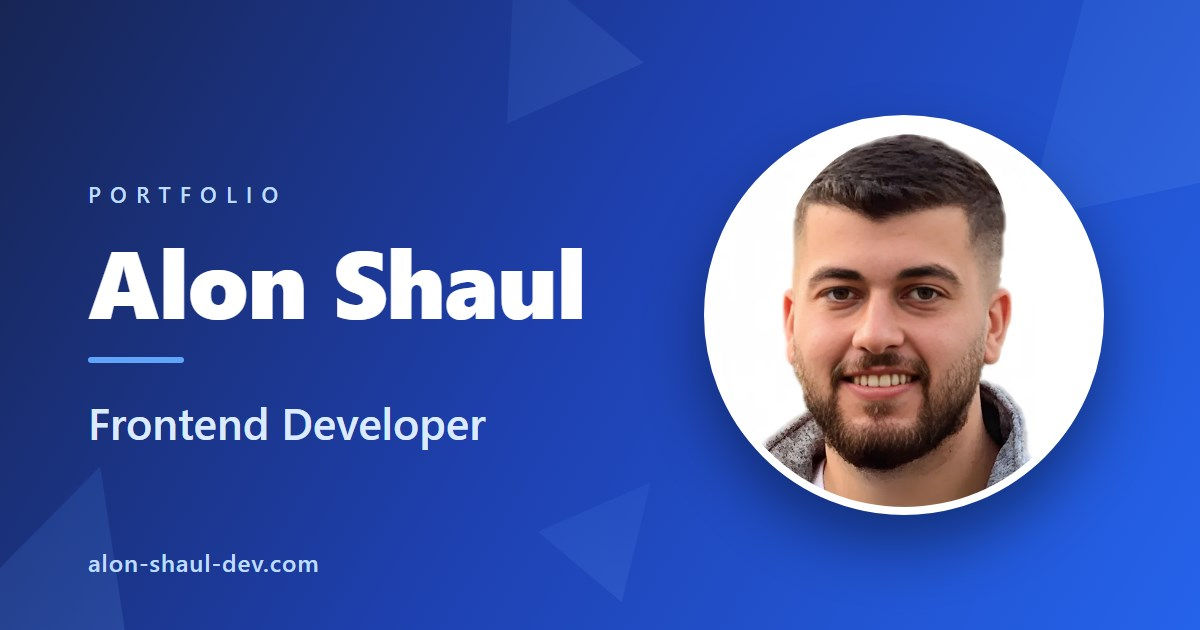
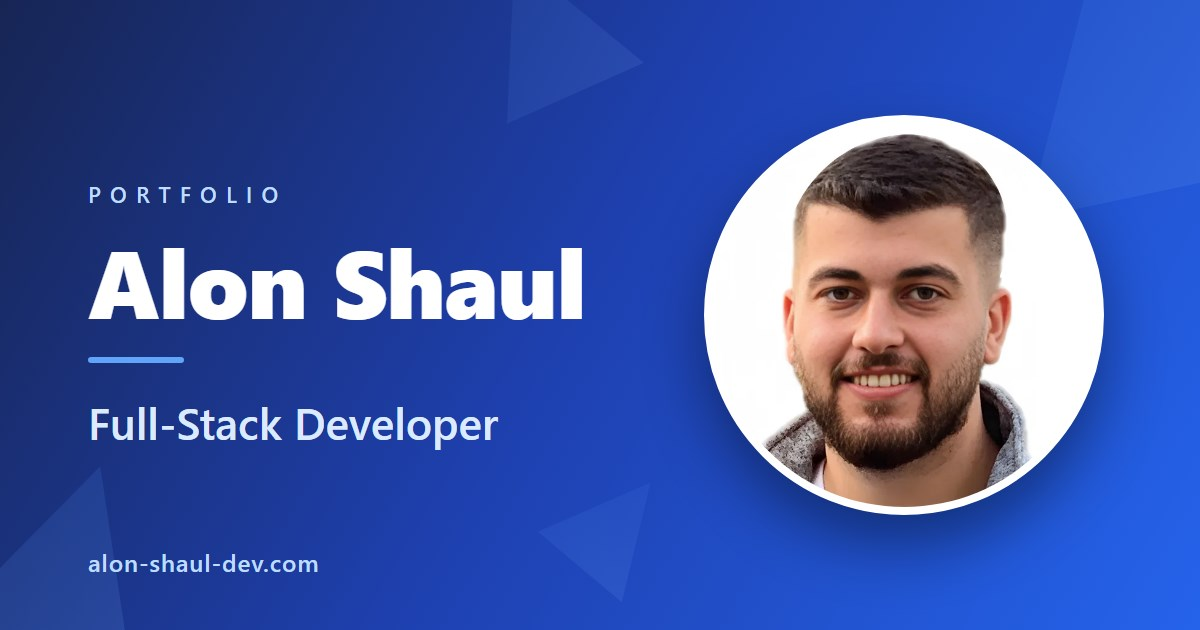
Rebrand portfolio as Full-Stack Developer

Changed region(s): [[0.0925, 0.6333, 0.4317, 0.7238]]

diff --git a/src/i18n.js b/src/i18n.js
@@ -17,7 +17,7 @@ const resources = {
 
       // Home.js
       home_header_titleName: "Alon Shaul",
-      home_header_subtitle: "מפתח Frontend",
+      home_header_subtitle: "מפתח Full-Stack",
       home_header_quote: "\"אני משלב גישה חדשנית עם התמחות טכנולוגית מתקדמת, ומקפיד על כל פרט מתוך מחויבות לעיצוב חוויית משתמש מעצימה.\nבכל פרויקט שאני מוביל, אני מתכנן פתרונות יעילים ואסתטיים שמעניקים ערך אמיתי ומדגישים את כישוריי כמפתח מקצועי\".",
 
       home_skills_title: "המיומנויות שלי",
@@ -52,7 +52,7 @@ const resources = {
 
       // Profile.js
       profile_title: "אודותי",
-      profile_text: "שמי אלון שאול, בוגר תואר במדעי המחשב עם הכשרה מקצועית בפיתוח אתרים, ומפתח Frontend המתמחה ביצירת ממשקים דינאמיים ומודרניים. במהלך לימודיי והניסיון שצברתי, פיתחתי יכולת לשלב ידע תיאורטי עמוק עם יישום מעשי של טכנולוגיות עדכניות, תוך הקפדה על סטנדרטים גבוהים ליצירת חוויות משתמש חלקות ואינטואיטיביות. אני מחויב להביא את הידע והניסיון שצברתי לכל פרויקט, תוך יצירת פתרונות דיגיטליים חדשניים המשלבים מקצוענות, איכות ומצוינות.",
+      profile_text: "שמי אלון שאול, בוגר תואר במדעי המחשב עם הכשרה מקצועית בפיתוח אתרים, ומפתח Full-Stack המתמחה ביצירת ממשקים דינאמיים ומודרניים. במהלך לימודיי והניסיון שצברתי, פיתחתי יכולת לשלב ידע תיאורטי עמוק עם יישום מעשי של טכנולוגיות עדכניות, תוך הקפדה על סטנדרטים גבוהים ליצירת חוויות משתמש חלקות ואינטואיטיביות. אני מחויב להביא את הידע והניסיון שצברתי לכל פרויקט, תוך יצירת פתרונות דיגיטליים חדשניים המשלבים מקצוענות, איכות ומצוינות.",
       
       // Projects.js
       projects_title: "הפרויקטים שלי",
@@ -76,14 +76,14 @@ const resources = {
       projects_image_alt: "תמונת הפרויקט {{title}}",
 
       // Seo.js – כותרת ותיאור לכל עמוד (מטא-דאטה למנועי חיפוש)
-      seo_home_title: "Alon Shaul | מפתח Frontend – תיק עבודות",
-      seo_home_description: "תיק העבודות של אלון שאול, מפתח Frontend: ממשקי ווב מודרניים ב-React, פרויקטים נבחרים וטופס ליצירת קשר.",
-      seo_profile_title: "אודות | Alon Shaul – מפתח Frontend",
-      seo_profile_description: "אלון שאול, מפתח Frontend ובוגר תואר במדעי המחשב עם הכשרה מקצועית בפיתוח אתרים. רקע מקצועי וקישורים ל-GitHub ול-LinkedIn.",
-      seo_projects_title: "פרויקטים | Alon Shaul – מפתח Frontend",
+      seo_home_title: "Alon Shaul | Full-Stack Developer",
+      seo_home_description: "תיק העבודות של אלון שאול, מפתח Full-Stack הבונה אפליקציות ווב מודרניות ב-React וב-Node.js. פרויקטים נבחרים, כישורים וטופס ליצירת קשר.",
+      seo_profile_title: "אודות | Alon Shaul – מפתח Full-Stack",
+      seo_profile_description: "אלון שאול, מפתח Full-Stack ובוגר תואר במדעי המחשב עם הכשרה מקצועית בפיתוח אתרים. רקע מקצועי וקישורים ל-GitHub ול-LinkedIn.",
+      seo_projects_title: "פרויקטים | Alon Shaul – מפתח Full-Stack",
       seo_projects_description: "הפרויקטים של אלון שאול: MoveMentor, מערכת שיקום מותאמת אישית, ו-To Do List, אפליקציה לניהול משימות. כולל הטכנולוגיות וקישורים לקוד ב-GitHub.",
-      seo_contact_title: "צור קשר | Alon Shaul – מפתח Frontend",
-      seo_contact_description: "יצירת קשר עם אלון שאול, מפתח Frontend, באמצעות שליחת הודעה בטופס יצירת הקשר שבאתר.",
+      seo_contact_title: "צור קשר | Alon Shaul – מפתח Full-Stack",
+      seo_contact_description: "יצירת קשר עם אלון שאול, מפתח Full-Stack, באמצעות שליחת הודעה בטופס יצירת הקשר שבאתר.",
 
       // NotFound.js – עמוד "לא נמצא"
       notFound_title: "הדף לא נמצא",
@@ -128,7 +128,7 @@ const resources = {
 
       // Home.js
       home_header_titleName: "Alon Shaul",
-      home_header_subtitle: "Frontend Developer",
+      home_header_subtitle: "Full-Stack Developer",
       home_header_quote: "\"I combine an innovative approach with advanced technological expertise, and I pay attention to every detail with a commitment to designing an empowering user experience.\nIn every project I lead, I plan efficient and aesthetic solutions that deliver true value and highlight my skills as a professional developer\"",
 
       home_skills_title: "My Skills",
@@ -163,7 +163,7 @@ const resources = {
 
       // Profile.js
       profile_title: "About Me",
-      profile_text: "I am Alon Shaul, a Frontend Developer with a degree in Computer Science and professional training in web development, specializing in creating dynamic and modern interfaces. Throughout my studies and professional experience, I have honed my ability to blend deep theoretical knowledge with the practical application of cutting-edge technologies, all while upholding high standards to craft seamless and intuitive user experiences. I am committed to bringing my expertise to every project by developing innovative digital solutions that embody professionalism, quality, and excellence.",
+      profile_text: "I am Alon Shaul, a Full-Stack Developer with a degree in Computer Science and professional training in web development, specializing in creating dynamic and modern interfaces. Throughout my studies and professional experience, I have honed my ability to blend deep theoretical knowledge with the practical application of cutting-edge technologies, all while upholding high standards to craft seamless and intuitive user experiences. I am committed to bringing my expertise to every project by developing innovative digital solutions that embody professionalism, quality, and excellence.",
       
       // Projects.js
       projects_title: "My Projects",
@@ -187,14 +187,14 @@ const resources = {
       projects_image_alt: "Preview image of {{title}}",
 
       // Seo.js – per-page title and description (search engine metadata)
-      seo_home_title: "Alon Shaul | Frontend Developer Portfolio",
-      seo_home_description: "Portfolio of Alon Shaul, a Frontend Developer building modern web interfaces with React. Selected projects, skills and a contact form.",
-      seo_profile_title: "About | Alon Shaul – Frontend Developer",
-      seo_profile_description: "Alon Shaul is a Frontend Developer with a degree in Computer Science and professional training in web development. Background and links to GitHub and LinkedIn.",
-      seo_projects_title: "Projects | Alon Shaul – Frontend Developer",
+      seo_home_title: "Alon Shaul | Full-Stack Developer",
+      seo_home_description: "Portfolio of Alon Shaul, a Full-Stack Developer building modern web applications with React and Node.js. Selected projects, skills and a contact form.",
+      seo_profile_title: "About | Alon Shaul – Full-Stack Developer",
+      seo_profile_description: "Alon Shaul is a Full-Stack Developer with a degree in Computer Science and professional training in web development. Background and links to GitHub and LinkedIn.",
+      seo_projects_title: "Projects | Alon Shaul – Full-Stack Developer",
       seo_projects_description: "Projects by Alon Shaul: MoveMentor, a personalized rehabilitation system, and To Do List, a task management app, with links to the code on GitHub.",
-      seo_contact_title: "Contact | Alon Shaul – Frontend Developer",
-      seo_contact_description: "Get in touch with Alon Shaul, Frontend Developer, by sending a message through the contact form on the site.",
+      seo_contact_title: "Contact | Alon Shaul – Full-Stack Developer",
+      seo_contact_description: "Get in touch with Alon Shaul, Full-Stack Developer, by sending a message through the contact form on the site.",
 
       // NotFound.js – "not found" page
       notFound_title: "Page not found",
@@ -239,7 +239,7 @@ const resources = {
 
       // Home.js
       home_header_titleName: "Алон Шауль",
-      home_header_subtitle: "Frontend Разработчик",
+      home_header_subtitle: "Full-Stack разработчик",
       home_header_quote: "\"Я сочетаю инновационный подход с передовыми технологическими знаниями и уделяю внимание каждой детали, исходя из стремления создавать вдохновляющий пользовательский опыт.\nВ каждом проекте, которым я руководствуюсь, я разрабатываю эффективные и эстетичные решения, приносящие реальную ценность и подчеркивающие мои навыки как профессионального разработчика\"",
 
       home_skills_title: "Мои навыки",
@@ -274,7 +274,7 @@ const resources = {
 
       // Profile.js
       profile_title: "Обо мне",
-      profile_text: "Я Алон Шауль, Frontend-разработчик с дипломом по информатике и профессиональной подготовкой в веб-разработке, специализирующийся на создании динамичных и современных интерфейсов. В процессе обучения и профессиональной деятельности я развил способность сочетать глубокие теоретические знания с практическим применением передовых технологий, соблюдая высокие стандарты для создания безупречного и интуитивного пользовательского опыта. Я стремлюсь применять свой опыт и знания в каждом проекте, разрабатывая инновационные цифровые решения, воплощающие профессионализм, качество и совершенство.",
+      profile_text: "Я Алон Шауль, Full-Stack разработчик с дипломом по информатике и профессиональной подготовкой в веб-разработке, специализирующийся на создании динамичных и современных интерфейсов. В процессе обучения и профессиональной деятельности я развил способность сочетать глубокие теоретические знания с практическим применением передовых технологий, соблюдая высокие стандарты для создания безупречного и интуитивного пользовательского опыта. Я стремлюсь применять свой опыт и знания в каждом проекте, разрабатывая инновационные цифровые решения, воплощающие профессионализм, качество и совершенство.",
       
       // Projects.js
       projects_title: "Мои проекты",
@@ -298,14 +298,14 @@ const resources = {
       projects_image_alt: "Изображение проекта {{title}}",
 
       // Seo.js – per-page title and description (search engine metadata)
-      seo_home_title: "Alon Shaul | Портфолио Frontend-разработчика",
-      seo_home_description: "Портфолио Алона Шауля, Frontend-разработчика: современные веб-интерфейсы на React, избранные проекты и форма для связи.",
-      seo_profile_title: "Обо мне | Alon Shaul – Frontend-разработчик",
-      seo_profile_description: "Алон Шауль — Frontend-разработчик с дипломом по информатике и профессиональной подготовкой в веб-разработке. Опыт и ссылки на GitHub и LinkedIn.",
-      seo_projects_title: "Проекты | Alon Shaul – Frontend-разработчик",
+      seo_home_title: "Alon Shaul | Full-Stack Developer",
+      seo_home_description: "Портфолио Алона Шауля, Full-Stack разработчика, создающего современные веб-приложения на React и Node.js. Избранные проекты, навыки и форма для связи.",
+      seo_profile_title: "Обо мне | Alon Shaul – Full-Stack разработчик",
+      seo_profile_description: "Алон Шауль — Full-Stack разработчик с дипломом по информатике и профессиональной подготовкой в веб-разработке. Опыт и ссылки на GitHub и LinkedIn.",
+      seo_projects_title: "Проекты | Alon Shaul – Full-Stack разработчик",
       seo_projects_description: "Проекты Алона Шауля: MoveMentor — персонализированная система реабилитации и To Do List — приложение для управления задачами. Ссылки на код на GitHub.",
-      seo_contact_title: "Контакты | Alon Shaul – Frontend-разработчик",
-      seo_contact_description: "Свяжитесь с Алоном Шаулем, Frontend-разработчиком, отправив сообщение через форму обратной связи на сайте.",
+      seo_contact_title: "Контакты | Alon Shaul – Full-Stack разработчик",
+      seo_contact_description: "Свяжитесь с Алоном Шаулем, Full-Stack разработчиком, отправив сообщение через форму обратной связи на сайте.",
 
       // NotFound.js – "not found" page
       notFound_title: "Страница не найдена",

diff --git a/public/index.html b/public/index.html
@@ -10,11 +10,11 @@
 
     <!-- כותרת ותיאור ברירת מחדל, לסורקים שאינם מריצים JavaScript.
          רכיב Seo מחליף אותם בכותרת ובתיאור של העמוד והשפה הנוכחיים. -->
-    <title data-seo-default>Alon Shaul | מפתח Frontend – תיק עבודות</title>
+    <title data-seo-default>Alon Shaul | Full-Stack Developer</title>
     <meta
       data-seo-default
       name="description"
-      content="תיק העבודות של אלון שאול, מפתח Frontend: ממשקי ווב מודרניים ב-React, פרויקטים נבחרים וטופס ליצירת קשר."
+      content="תיק העבודות של אלון שאול, מפתח Full-Stack הבונה אפליקציות ווב מודרניות ב-React וב-Node.js. פרויקטים נבחרים, כישורים וטופס ליצירת קשר."
     />
 
     <!-- Open Graph / Twitter – תצוגה מקדימה של הקישור כשכתובת האתר משותפת -->
@@ -22,21 +22,21 @@
     <meta property="og:site_name" content="Alon Shaul" />
     <meta property="og:locale" content="he_IL" />
     <meta property="og:url" content="https://alon-shaul-dev.com/" />
-    <meta property="og:title" content="Alon Shaul | מפתח Frontend – תיק עבודות" />
+    <meta property="og:title" content="Alon Shaul | Full-Stack Developer" />
     <meta
       property="og:description"
-      content="תיק העבודות של אלון שאול, מפתח Frontend: ממשקי ווב מודרניים ב-React, פרויקטים נבחרים וטופס ליצירת קשר."
+      content="תיק העבודות של אלון שאול, מפתח Full-Stack הבונה אפליקציות ווב מודרניות ב-React וב-Node.js. פרויקטים נבחרים, כישורים וטופס ליצירת קשר."
     />
     <meta property="og:image" content="https://alon-shaul-dev.com/og-image.jpg" />
     <meta property="og:image:type" content="image/jpeg" />
     <meta property="og:image:width" content="1200" />
     <meta property="og:image:height" content="630" />
-    <meta property="og:image:alt" content="Alon Shaul – Frontend Developer – Portfolio" />
+    <meta property="og:image:alt" content="Alon Shaul – Full-Stack Developer – Portfolio" />
     <meta name="twitter:card" content="summary_large_image" />
-    <meta name="twitter:title" content="Alon Shaul | מפתח Frontend – תיק עבודות" />
+    <meta name="twitter:title" content="Alon Shaul | Full-Stack Developer" />
     <meta
       name="twitter:description"
-      content="תיק העבודות של אלון שאול, מפתח Frontend: ממשקי ווב מודרניים ב-React, פרויקטים נבחרים וטופס ליצירת קשר."
+      content="תיק העבודות של אלון שאול, מפתח Full-Stack הבונה אפליקציות ווב מודרניות ב-React וב-Node.js. פרויקטים נבחרים, כישורים וטופס ליצירת קשר."
     />
     <meta name="twitter:image" content="https://alon-shaul-dev.com/og-image.jpg" />
 
@@ -58,7 +58,7 @@
             "@id": "https://alon-shaul-dev.com/#person",
             "name": "Alon Shaul",
             "alternateName": "אלון שאול",
-            "jobTitle": "Frontend Developer",
+            "jobTitle": "Full-Stack Developer",
             "url": "https://alon-shaul-dev.com/",
             "image": "https://alon-shaul-dev.com/alon-shaul-1280.webp",
             "sameAs": ["https://www.linkedin.com/in/alonshaul/", "https://github.com/AlonShaul"]

diff --git a/README.md b/README.md
@@ -1,6 +1,6 @@
 # Personal Website – Alon Shaul
 
-This is my personal website that showcases my professional journey as a Frontend Developer. The site highlights my profile, projects, and contact details through a modern, responsive, and accessible design.
+This is my personal website that showcases my professional journey as a Full-Stack Developer. The site highlights my profile, projects, and contact details through a modern, responsive, and accessible design.
 
 ---
 
@@ -81,6 +81,6 @@ Before running this project locally, ensure you have the following installed:
 
 ## Conclusion
 
-This personal website is a testament to my dedication to modern web development, user experience, and accessibility. It not only showcases my skills as a Frontend Developer but also serves as a platform to share my projects and professional journey. I look forward to connecting with like-minded professionals and exploring new opportunities for collaboration.
+This personal website is a testament to my dedication to modern web development, user experience, and accessibility. It not only showcases my skills as a Full-Stack Developer but also serves as a platform to share my projects and professional journey. I look forward to connecting with like-minded professionals and exploring new opportunities for collaboration.
 
-*Crafted with passion and precision – a true reflection of my professional path as a Frontend Developer.*
+*Crafted with passion and precision – a true reflection of my professional path as a Full-Stack Developer.*
